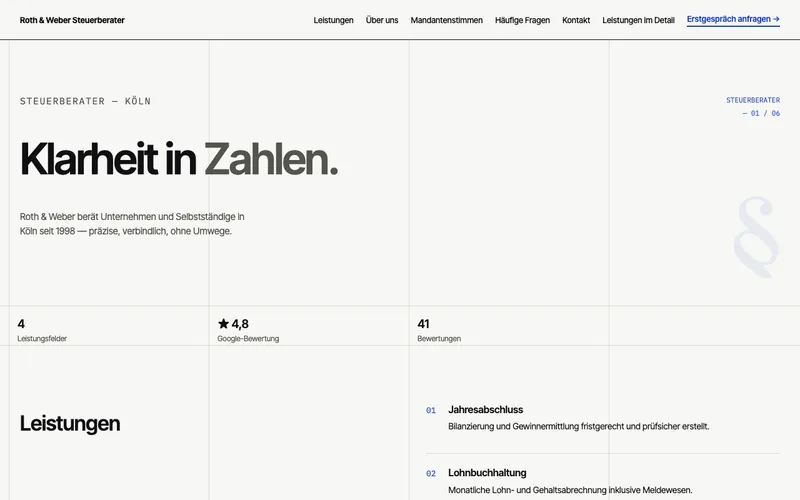
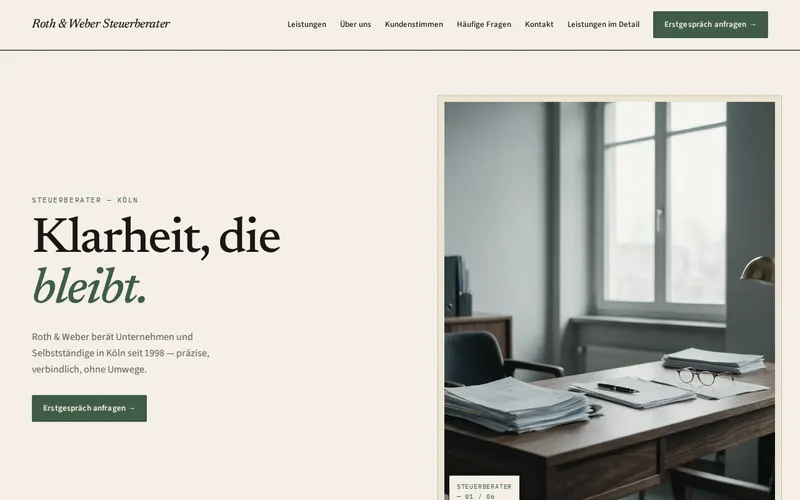
feat: Klarwerk-Demo-Fotos und Pack-Vorschauen nachziehen
Die alten Blau-Illustrationen widersprechen dem Instrument-Look. Hero und
Details sind jetzt fotografisch (Graphit, Kupfer), Landing-Thumbs neu gerendert.

diff --git a/client/src/components/site/packLayoutCss.ts b/client/src/components/site/packLayoutCss.ts
@@ -28,12 +28,7 @@ function q(
   return `.pb-site.pb-${pack}[${mobileAttr}="${variant}"]${rest},.pb-site.pb-${pack}:not([${mobileAttr}])[${attr}="${variant}"]${rest}`;
 }
 
-function hero(
-  pack: string,
-  variant: string,
-  mode: Mode,
-  rest = ""
-): string {
+function hero(pack: string, variant: string, mode: Mode, rest = ""): string {
   return q(pack, "data-pb-hero", "data-pb-hero-mobile", variant, mode, rest);
 }
 
@@ -65,12 +60,7 @@ function about(pack: string, variant: string, mode: Mode, rest = ""): string {
   return q(pack, "data-pb-about", "data-pb-about-mobile", variant, mode, rest);
 }
 
-function gallery(
-  pack: string,
-  variant: string,
-  mode: Mode,
-  rest = ""
-): string {
+function gallery(pack: string, variant: string, mode: Mode, rest = ""): string {
   return q(
     pack,
     "data-pb-gallery",

diff --git a/tests/visual/packs.spec.ts b/tests/visual/packs.spec.ts
@@ -257,9 +257,7 @@ test("Designprofil-Variante verändert Komposition ohne Pack-Wechsel", async ({
 }) => {
   await page.setViewportSize({ width: 1440, height: 900 });
   await page.emulateMedia({ reducedMotion: "reduce" });
-  await page.goto(
-    "/dev/site-preview?pack=werkbank&fixture=full&variant=1"
-  );
+  await page.goto("/dev/site-preview?pack=werkbank&fixture=full&variant=1");
   const site = page.locator(".pb-site");
   await expect(site).toHaveAttribute("data-pb-services", "grid");
   await expect(site).toHaveAttribute("data-pb-about", "image-left");

diff --git a/client/src/components/site/packs/klarwerk/index.tsx b/client/src/components/site/packs/klarwerk/index.tsx
@@ -450,7 +450,11 @@ const KlarwerkPage: React.FC<{
           {facts.map((f, i) => (
             <div
               className={
-                i === 0 ? "pb-kw-metric" : i === 1 ? "pb-kw-cell hi" : "pb-kw-cell"
+                i === 0
+                  ? "pb-kw-metric"
+                  : i === 1
+                    ? "pb-kw-cell hi"
+                    : "pb-kw-cell"
               }
               key={f.label}
             >
